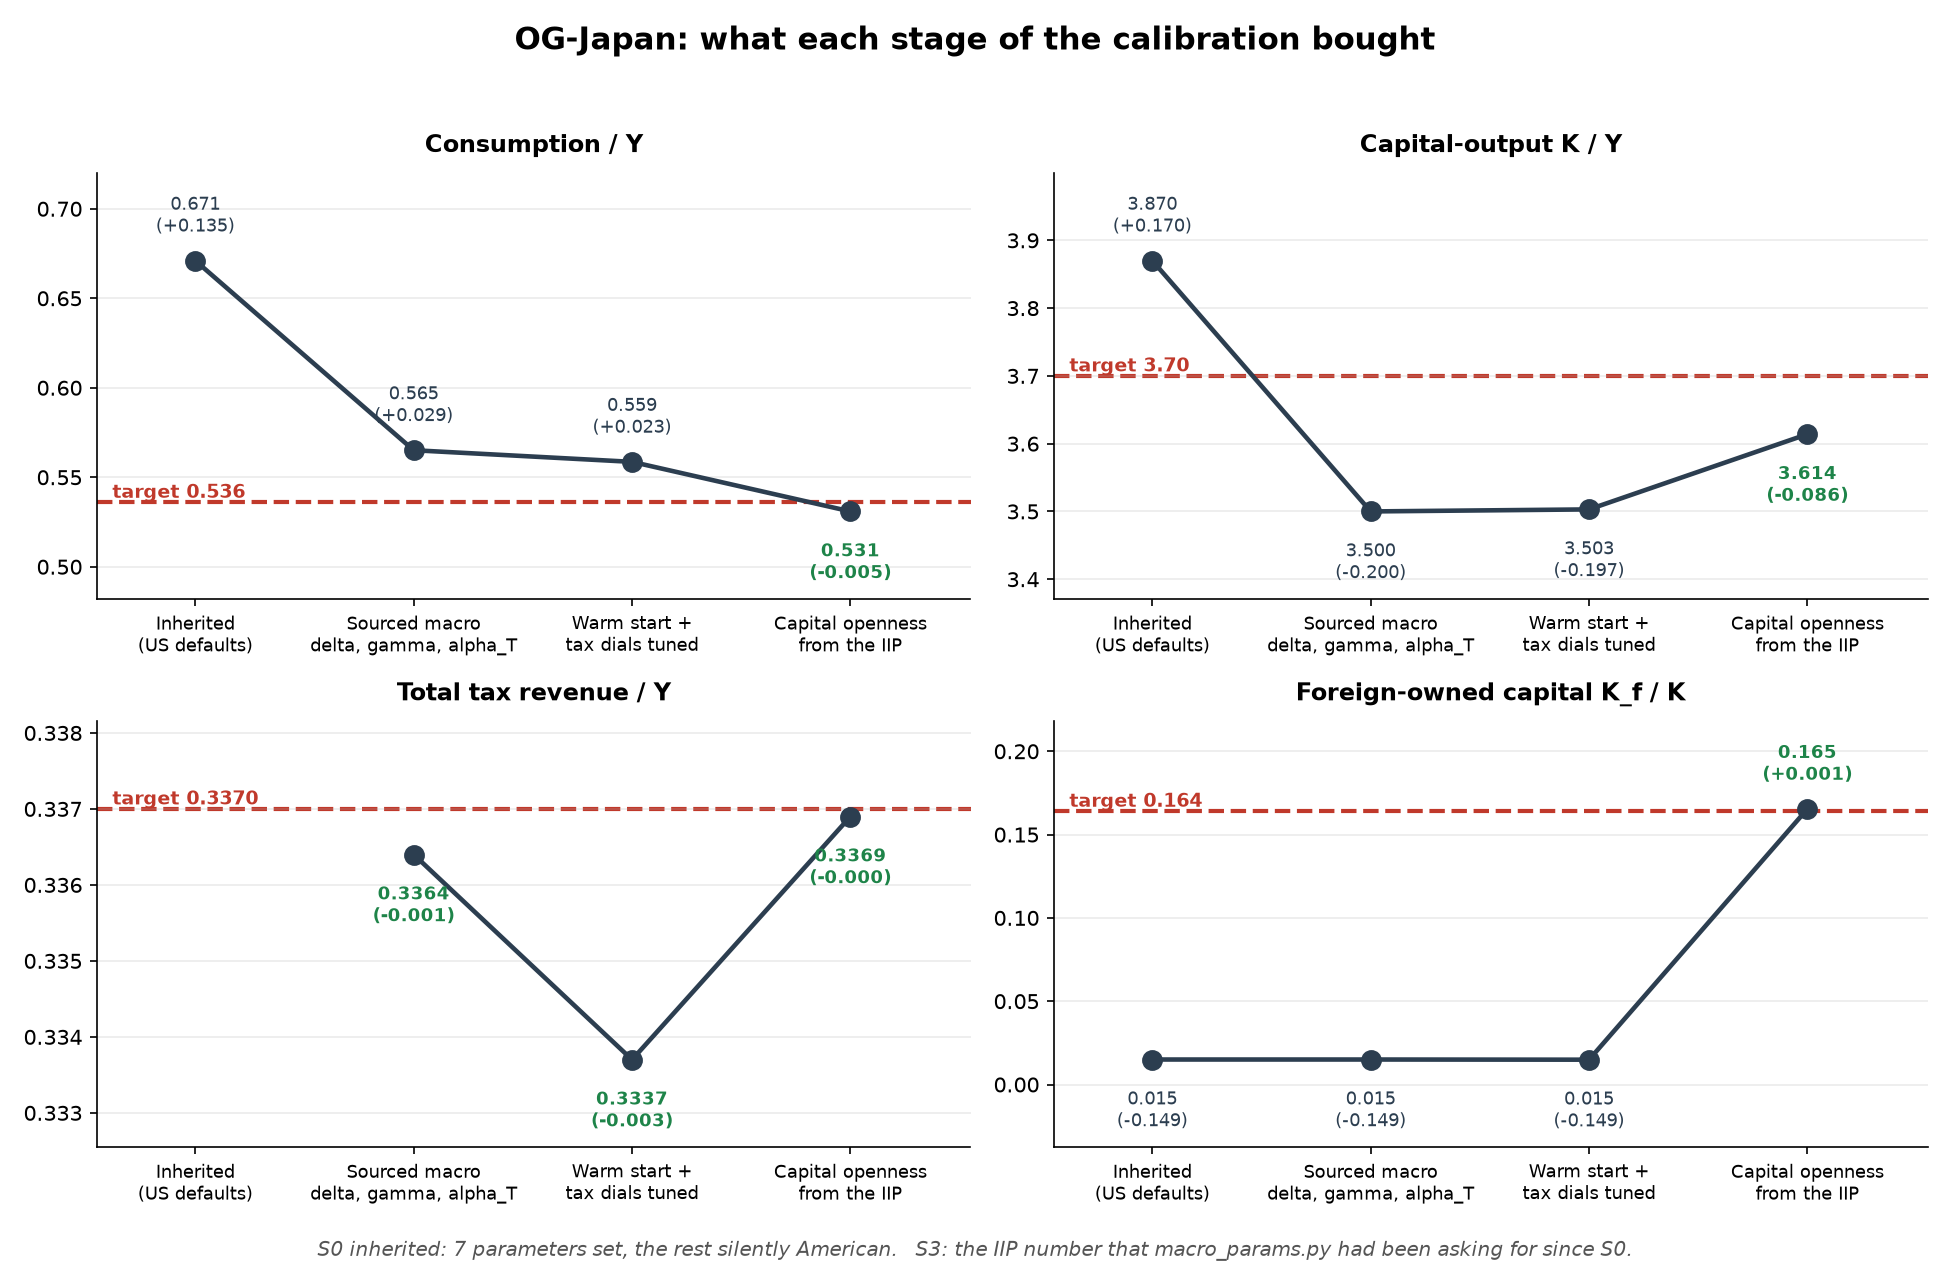
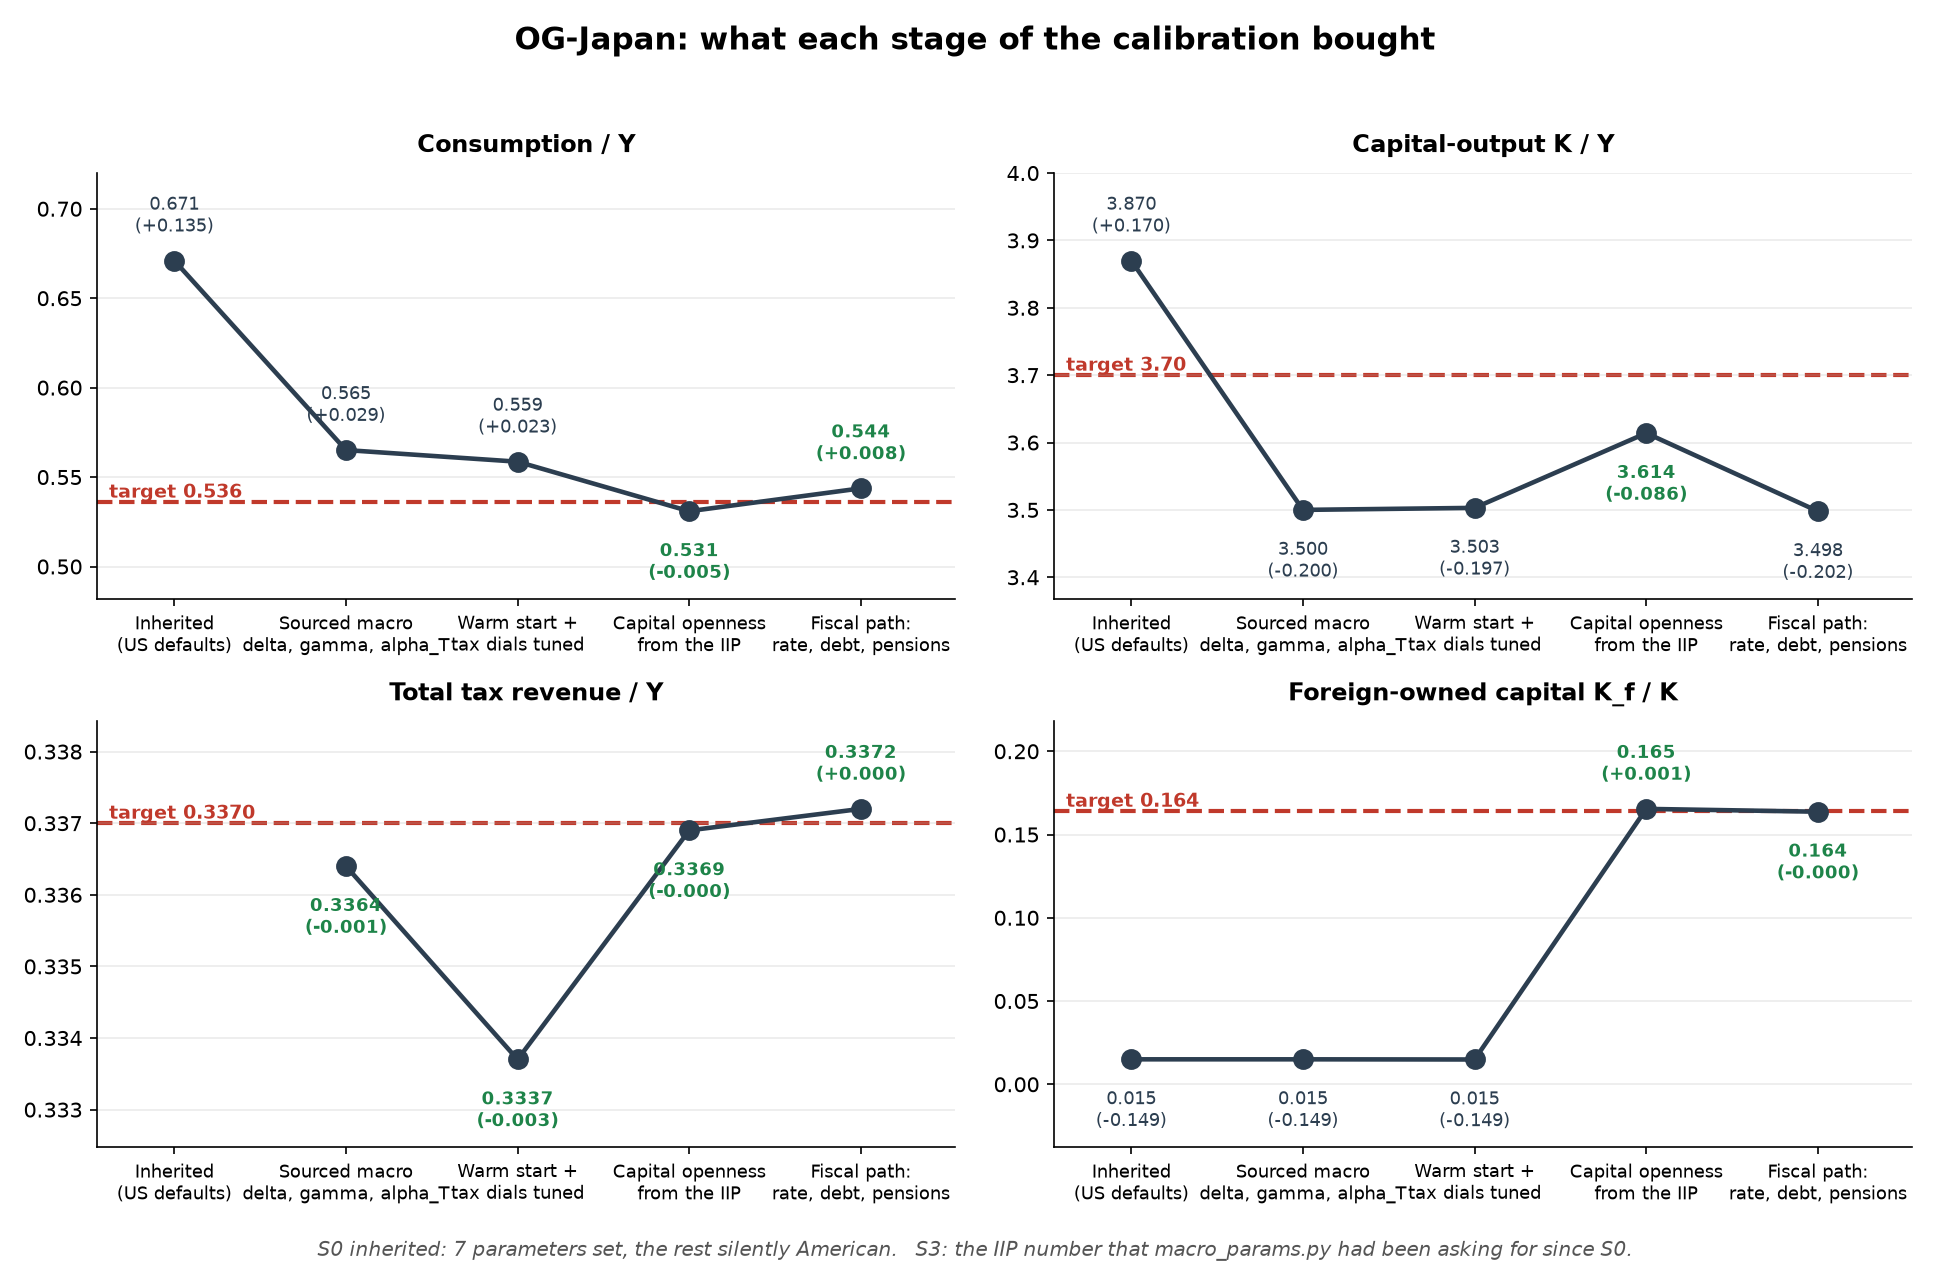
Score pensions on the path and refresh all outputs

diff --git a/examples/validate_fiscal_path.py b/examples/validate_fiscal_path.py
@@ -89,6 +89,7 @@ def model_paths(tpi_dir="examples/OG-JPN-Example/OUTPUT_BASELINE"):
         return a / Y
 
     rev = ratio("total_tax_revenue")
+    pension = ratio("agg_pension_outlays")
     # primary spending = G + TR + I_g + pensions (all primary outlays)
     prim_spend = (
         ratio("G") + ratio("TR") + ratio("I_g") + ratio("agg_pension_outlays")
@@ -98,6 +99,7 @@ def model_paths(tpi_dir="examples/OG-JPN-Example/OUTPUT_BASELINE"):
         "primary balance": rev - prim_spend,
         "revenue/Y": rev,
         "G/Y": ratio("G"),
+        "pension/Y": pension,
     }
 
 
@@ -125,11 +127,15 @@ def main():
         "D/Y": shifted("GNFLQ"),
         "primary balance": {y: oecd["NLGXQ"].get(y, np.nan) / 100 for y in years},
         "revenue/Y": {y: 0.337 if y in ("2025", "2026") else np.nan for y in years},
+        # what Japan actually spends on public pensions now (OECD PaG 2023).
+        # This is the RIGHT place for it: the steady state is older than today
+        # and must spend more, so scoring 9.3% there distorts the near term.
+        "pension/Y": {y: 0.093 if y in ("2025", "2026") else np.nan for y in years},
     }
 
     print("\n=== OG-Japan fiscal PATH vs Japan's actual accounts ===")
     print("(OECD Economic Outlook; blank = beyond the projection horizon)\n")
-    for key in ("D/Y", "primary balance", "revenue/Y"):
+    for key in ("D/Y", "primary balance", "revenue/Y", "pension/Y"):
         print(f"{key}")
         print(f"  {'year':6s}{'model':>10s}{'OECD':>10s}{'gap':>10s}")
         for t, y in enumerate(years):
@@ -145,7 +151,7 @@ def main():
         ("D/Y", "Net debt / GDP  (timing-aligned)", "GNFLQ"),
         ("primary balance", "Primary balance / GDP", "NLGXQ"),
         ("revenue/Y", "Tax revenue / GDP", "OECD RevStats"),
-        ("G/Y", "Government consumption / GDP", None),
+        ("pension/Y", "Public pensions / GDP", "OECD PaG"),
     ]
     fig, axes = plt.subplots(1, 4, figsize=(19, 4.6))
     fig.suptitle(

diff --git a/examples/validate_japan.py b/examples/validate_japan.py
@@ -66,10 +66,17 @@ DASHBOARD = [
         "OECD RevStats 2025: 78,335 yen bn",
     ),
     (
-        "Pension outlays / Y",
+        # NOT scored here. 9.3% of GDP is what Japan spends TODAY, and the
+        # model's stationary population is older than today's, so its
+        # steady-state pension bill must be higher. Matching 9.3% here was an
+        # error: it forced the FIRST transition year down to 6.85%. The 9.3%
+        # is scored on the transition path instead -- see
+        # examples/validate_fiscal_path.py. The steady-state value is aging,
+        # net of Japan's legislated macroeconomic slide.
+        "Pension outlays / Y  (SS > today)",
         lambda ss, Y: _s(ss["agg_pension_outlays"]) / Y,
-        0.093,
-        "OECD Pensions at a Glance 2023 (2022)",
+        None,
+        "aging net of the macro slide; 9.3% today is scored on the path",
     ),
     (
         # NOT a data target: D/Y in the steady state IS debt_ratio_ss, a policy
@@ -80,7 +87,7 @@ DASHBOARD = [
         "Debt / Y  (= SS anchor)",
         lambda ss, Y: _s(ss["D"]) / Y,
         None,
-        "policy anchor debt_ratio_ss=1.0; measured start 1.148",
+        "debt_ratio_ss = 1.148, set to the measured net debt",
     ),
     (
         "Foreign-held debt  D_f/D",

diff --git a/examples/plot_calibration_journey.py b/examples/plot_calibration_journey.py
@@ -22,6 +22,7 @@ STAGES = [
     ("Sourced macro\ndelta, gamma, alpha_T", "S1", 0.5651, 3.50, 0.3364, 0.015),
     ("Warm start +\ntax dials tuned", "S2", 0.5586, 3.503, 0.3337, 0.0149),
     ("Capital openness\nfrom the IIP", "S3", 0.5309, 3.614, 0.3369, 0.1654),
+    ("Fiscal path:\nrate, debt, pensions", "S4", 0.5437, 3.498, 0.3372, 0.1637),
 ]
 TARGETS = {"C/Y": 0.536, "K/Y": 3.70, "revenue/Y": 0.337, "K_f/K": 0.164}
 

diff --git a/docs/CALIBRATION_TABLE.md b/docs/CALIBRATION_TABLE.md
@@ -9,36 +9,37 @@ Generated by `examples/calibration_table.py` -- regenerate rather than edit, so 
 | Parameter | Value | Source |
 |---|---|---|
 | `TPI_outer_method` | `anderson` | family run-engineering guidance |
-| `alpha_G` | `0.1947` | World Bank NE.CON.GOVT.ZS, general government, 2024 |
+| `alpha_G` | `0.1915` | World Bank NE.CON.GOVT.ZS, general government, 2024 |
 | `alpha_I` | `0.03` | Japan public gross fixed capital formation |
 | `alpha_T` | `0.025` | IPSS social security spending, CASH only (in-kind is in G) |
 | `beta_annual` | `(7,) array, first = 0.979` | calibrated to the PWT capital-output ratio of 3.70 |
-| `debt_ratio_ss` | `1` | policy anchor (chosen, not measured) |
+| `debt_ratio_ss` | `1.148` | policy anchor (chosen, not measured) |
 | `delta_annual` | `0.062` | World Bank NY.ADJ.DKAP.GN.ZS, CFC/K, 2016-2019 |
 | `g_y_annual` | `0.0104` | PWT via FRED: real GDP / (persons x hours), 2000-2019 |
 | `gamma` | `0.43` | PWT labour share (FRED LABSHPJPA156NRUG), 2015-2023 |
-| `initial_debt_ratio` | `0.864` | OECD Economic Outlook GNFLQ, net, end-2024 |
+| `initial_debt_ratio` | `1.148` | OECD Economic Outlook GNFLQ, net, end-2024 |
 | `initial_foreign_debt_ratio` | `0.137` | MOF JGB/T-Bill holders, Mar 2026 |
+| `initial_wealth_ratio` | `3.119` | — |
 | `r_gov_scale` | `0.25` | reduced pass-through: BOJ holds 42.2% of JGBs |
-| `r_gov_shift` | `0.017` | OECD EO net interest / net debt, 2015-2024 |
+| `r_gov_shift` | `(12,) array, first = 0.038` | OECD EO net interest / net debt, 2015-2024 |
 | `zeta_D` | `0.137` | set equal to the stock share (family default) |
-| `zeta_K` | `0.7` | not anchored; Japan inward FDI ~5% of GDP |
+| `zeta_K` | `0.543` | not anchored; Japan inward FDI ~5% of GDP |
 
 ## Taxes
 
 | Parameter | Value | Source |
 |---|---|---|
-| `adjustment_factor_for_cit_receipts` | `0.869` | tuned to CIT 4.70% of GDP |
+| `adjustment_factor_for_cit_receipts` | `0.856` | tuned to CIT 4.70% of GDP |
 | `cit_rate` | `0.2974` | Japan statutory combined national + local |
-| `etr_params` | `[0.55, 1.3, 3.675e-10]` | phi0 = statutory top 55%; phi2 tuned to PIT 6.17% of GDP |
+| `etr_params` | `[0.55, 1.3, 3.668e-10]` | phi0 = statutory top 55%; phi2 tuned to PIT 6.17% of GDP |
 | `frac_tax_payroll` | `0.681` | OECD RevStats 2025: SSC / (SSC + PIT) |
 | `h_wealth` | `1` | flat-rate wealth tax form |
 | `m_wealth` | `0.001` | small positive: m=0 divides 0/0 at zero wealth |
-| `mtrx_params` | `[0.55, 1.3, 3.675e-10]` | same triple (analytically consistent) |
-| `mtry_params` | `[0.55, 1.3, 3.675e-10]` | same triple (analytically consistent) |
+| `mtrx_params` | `[0.55, 1.3, 3.668e-10]` | same triple (analytically consistent) |
+| `mtry_params` | `[0.55, 1.3, 3.668e-10]` | same triple (analytically consistent) |
 | `p_wealth` | `0.00599` | tuned to property taxes 2.21% of GDP |
 | `tau_bq` | `0.0313` | tuned to inheritance tax 0.55% of GDP |
-| `tau_c` | `0.12814` | tuned to OECD RevStats goods+services 6.82% of GDP |
+| `tau_c` | `0.12559` | tuned to OECD RevStats goods+services 6.82% of GDP |
 | `tau_payroll` | `0.2312` | OECD RevStats 2025 SSC 13.18% / labour share 0.57 |
 | `tax_func_type` | `GS` | Gouveia-Strauss: floors the effective rate at zero |
 
@@ -46,10 +47,11 @@ Generated by `examples/calibration_table.py` -- regenerate rather than edit, so 
 
 | Parameter | Value | Source |
 |---|---|---|
-| `alpha_db` | `0.0097825` | OECD PaG 32.4% x survivors/disability uplift, then fitted |
+| `alpha_db` | `0.0132825` | OECD PaG 32.4% x survivors/disability uplift, then fitted |
 | `avg_earn_num_years` | `40` | Japan averages the ENTIRE career, not final salary |
 | `mean_income_data` | `4.6e+06` | National Tax Agency private-sector wages, 2023 |
 | `pension_system` | `Defined Benefits` | Japan's public pension is earnings-related DB |
+| `replacement_rate_adjust` | `(33, 7) array, first = 1` | — |
 | `retirement_age` | `65` | pensionable age, both tiers |
 | `yr_contrib` | `40` | full Basic Pension contribution period |
 
@@ -74,4 +76,4 @@ In a country port the parameters you did not set matter as much as those you did
 | `initial_wealth_ratio` | undiagnosed | affects the TRANSITION only; flagged as the main open risk |
 | `epsilon` | 1.0 (Cobb-Douglas) | no Japanese estimate applied |
 
-**34 parameters calibrated.**
+**36 parameters calibrated.**
